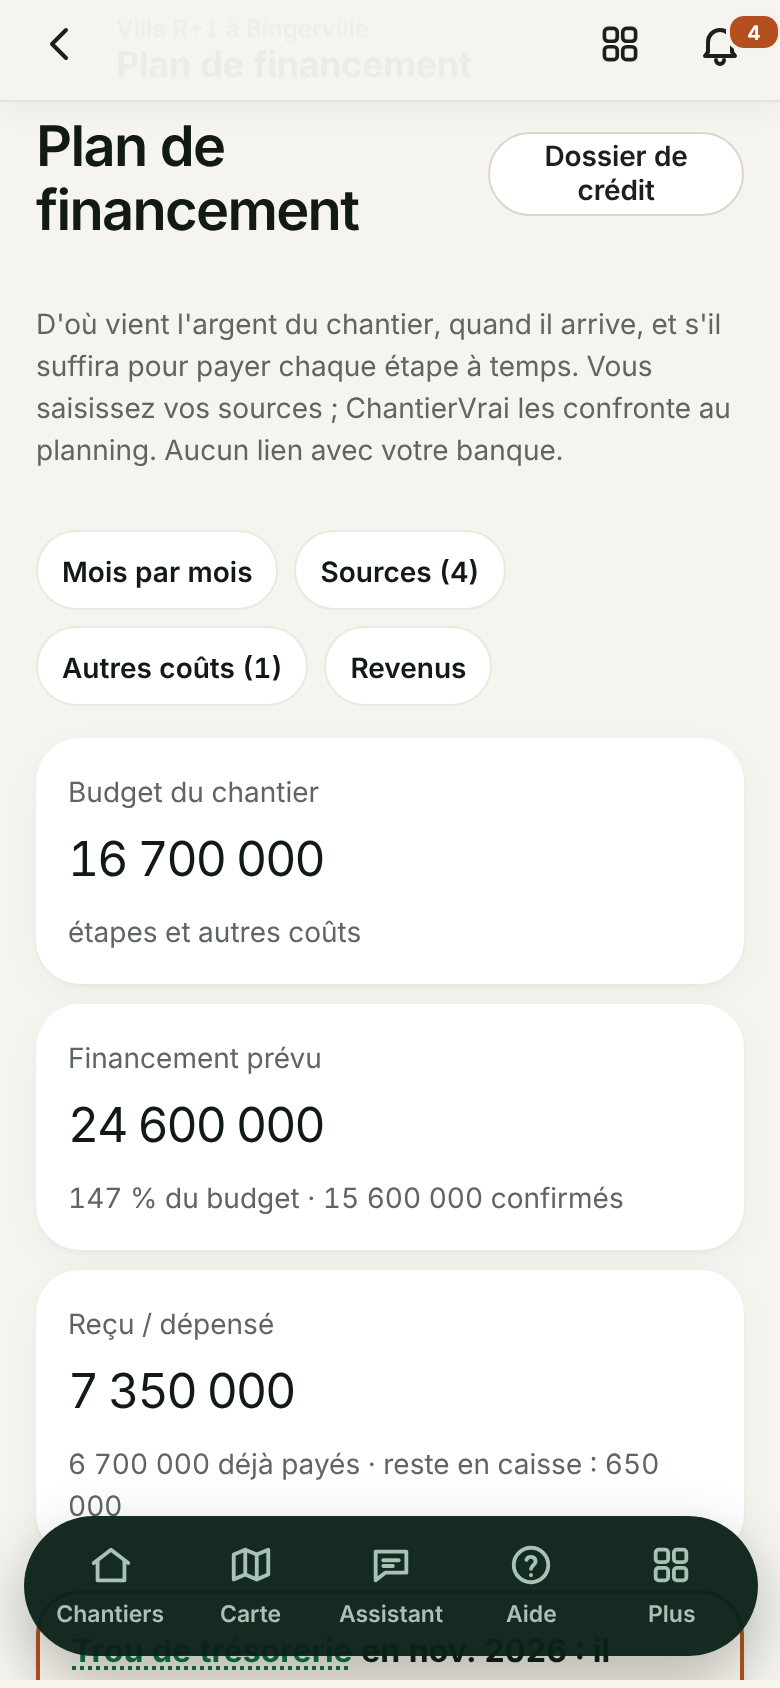
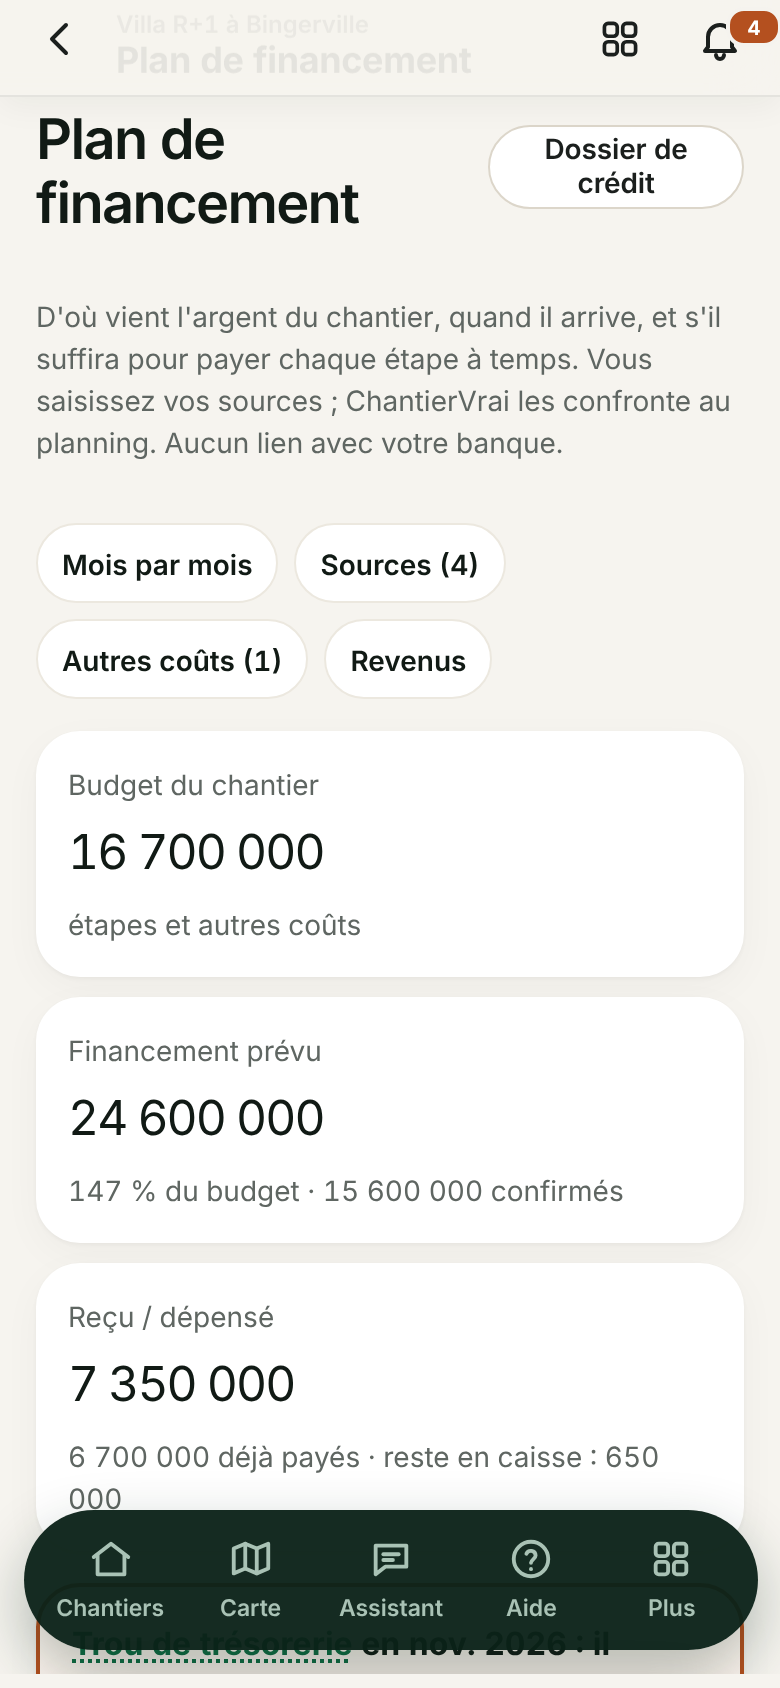
Add files via upload

diff --git a/static/style.css b/static/style.css
@@ -1309,3 +1309,83 @@ body.night .pcard-new .muted{color:var(--night-muted)}
 body.night main{overflow-x:clip}
 body.night{overflow-x:hidden}
 @media (min-width:1000px){body.night .months{max-width:520px}body.night .band-stats{max-width:520px}}
+
+/* ---- Terrains : cartographie et vérification ---- */
+.plots-hero{display:flex;flex-direction:column;gap:6px;margin:4px 0 6px}
+.plots-hero h1{margin:0}
+.eyebrow{font-size:11.5px;letter-spacing:.14em;text-transform:uppercase;font-weight:700;color:#9A7A3E}
+.plot-new .grid2{margin-top:4px}
+.plot-list{display:grid;gap:12px;grid-template-columns:repeat(auto-fill,minmax(280px,1fr))}
+.plot-item{text-decoration:none;color:inherit;transition:transform .18s ease,box-shadow .18s ease}
+.plot-item:hover{transform:translateY(-2px);box-shadow:0 10px 30px rgba(11,34,25,.10)}
+.lvl-bar{height:6px;border-radius:99px;background:#ECE7DC;overflow:hidden}
+.lvl-bar i{display:block;height:100%;background:linear-gradient(90deg,#C9A46A,#0F6E45);border-radius:inherit}
+.how ol{margin:6px 0 4px;padding-left:20px;display:flex;flex-direction:column;gap:6px}
+.lvl-steps{list-style:none;margin:6px 0 2px;padding:0;display:grid;grid-template-columns:repeat(4,1fr);gap:6px}
+.lvl-steps li{display:flex;flex-direction:column;align-items:center;gap:6px;text-align:center;font-size:12.5px;color:#6B726E;position:relative}
+.lvl-steps li i{font-style:normal;width:30px;height:30px;border-radius:50%;display:grid;place-items:center;font-weight:700;background:#ECE7DC;color:#6B726E;z-index:1}
+.lvl-steps li:not(:first-child)::before{content:"";position:absolute;top:15px;right:50%;width:100%;height:2px;background:#ECE7DC}
+.lvl-steps li.done i{background:#0B2219;color:#C9A46A}
+.lvl-steps li.done:not(:first-child)::before{background:#0B2219}
+.lvl-steps li.now i{box-shadow:0 0 0 4px rgba(201,164,106,.35)}
+.lvl-steps li.now span{color:#0B2219;font-weight:700}
+.plot-map{height:440px;border-radius:14px;overflow:hidden;background:#0B2219}
+@media (max-width:640px){.plot-map{height:340px}}
+.map-tools{flex-wrap:wrap;gap:8px}
+.map-btns{display:flex;gap:6px;flex-wrap:wrap}
+.borne{background:#0B2219;color:#C9A46A;border:2px solid #C9A46A;border-radius:50%;font:700 10px/22px system-ui,sans-serif;text-align:center;box-shadow:0 2px 6px rgba(0,0,0,.4)}
+.official-grid{display:grid;gap:12px;grid-template-columns:repeat(auto-fit,minmax(260px,1fr))}
+.land-cta{flex-direction:row!important;align-items:center;gap:14px;text-decoration:none;color:inherit;margin-top:14px;
+  background:linear-gradient(120deg,#0B2219,#163A2B);color:#fff;border:1px solid rgba(201,164,106,.35)}
+.land-cta b{display:block;color:#fff}
+.land-cta .muted{color:#B9C8BF!important;font-size:13.5px}
+.land-cta-ic{flex:none;width:44px;height:44px;border-radius:12px;display:grid;place-items:center;background:rgba(201,164,106,.16);color:#C9A46A}
+.land-cta-ic svg{width:24px;height:24px}
+.land-cta-go{margin-left:auto;font-size:20px;color:#C9A46A}
+.plot-map.offline{display:flex;flex-direction:column;align-items:center;justify-content:center;gap:8px;padding:16px;color:#B9C8BF;text-align:center;font-size:13.5px;
+  background:radial-gradient(circle at 30% 20%,#163A2B,#0B2219 70%)}
+.plot-map.offline svg{width:min(320px,80%);height:auto}
+.official-grid .tag,#points .tag,.level-card .tag{white-space:normal;line-height:1.35}
+
+/* ---- Drone et caméra ---- */
+.aerial-kpis{display:grid;grid-template-columns:repeat(auto-fit,minmax(150px,1fr));gap:12px;margin:4px 0}
+.aerial-kpis span{display:flex;flex-direction:column;gap:2px}
+.aerial-kpis i{font-style:normal;font-size:12px;color:#6B726E;text-transform:uppercase;letter-spacing:.08em}
+.aerial-kpis b{font-size:18px}
+.aerial-kpis small{font-size:12px;color:#6B726E}
+.freq-grid{display:grid;gap:10px;grid-template-columns:repeat(auto-fit,minmax(200px,1fr))}
+.freq{position:relative;display:flex;flex-direction:column;gap:6px;padding:16px;border:1.5px solid #E4DFD3;border-radius:14px;cursor:pointer;background:#FBFAF6;transition:border-color .15s,box-shadow .15s}
+.freq input{position:absolute;opacity:0;pointer-events:none}
+.freq:has(input:checked){border-color:#0B2219;box-shadow:0 0 0 3px rgba(201,164,106,.35);background:#fff}
+.freq-name{font-weight:700}
+.freq-price{font-size:22px;font-weight:700;color:#0B2219}
+.freq-price small{font-size:12px;font-weight:500;color:#6B726E}
+.freq-badge{position:absolute;top:12px;right:12px;font-size:11px;font-weight:700;padding:3px 8px;border-radius:99px;background:#C9A46A;color:#0B2219}
+.ba{position:relative;border-radius:14px;overflow:hidden;aspect-ratio:16/10;background:#0B2219}
+.ba img{position:absolute;inset:0;width:100%;height:100%;object-fit:cover}
+.ba-before{clip-path:inset(0 calc(100% - var(--x)) 0 0)}
+.ba-line{position:absolute;top:0;bottom:0;left:var(--x);width:2px;background:#C9A46A;box-shadow:0 0 8px rgba(0,0,0,.5)}
+.ba input{position:absolute;inset:0;width:100%;height:100%;opacity:0;cursor:ew-resize;margin:0}
+.mission-row{display:flex;flex-direction:column;gap:6px;padding:10px 0;border-top:1px solid #EEE9DE}
+.mission-row:first-of-type{border-top:0}
+.mission-strip{display:flex;gap:8px;overflow-x:auto;padding-bottom:4px}
+.mission-strip a{position:relative;flex:none}
+.mission-strip img{width:120px;height:84px;object-fit:cover;border-radius:10px;display:block}
+.mission-strip em{position:absolute;left:6px;bottom:6px;font-style:normal;font-size:10.5px;font-weight:700;padding:2px 6px;border-radius:6px;background:rgba(11,34,25,.85);color:#C9A46A}
+.tl{position:relative;border-radius:14px;overflow:hidden;background:#0B2219}
+.tl img{display:block;width:100%;aspect-ratio:16/9;object-fit:cover}
+.tl-time{position:absolute;top:10px;left:10px;font:600 12px/1 system-ui,sans-serif;padding:6px 9px;border-radius:8px;background:rgba(11,34,25,.8);color:#fff}
+.tl-bar{display:flex;gap:10px;align-items:center;padding:10px;background:#0B2219}
+.tl-bar input{flex:1;accent-color:#C9A46A}
+.tl-play.on{background:#C9A46A;color:#0B2219}
+.activity{display:grid;grid-template-columns:repeat(7,1fr);gap:6px}
+.act{display:flex;flex-direction:column;align-items:center;gap:4px;font-size:11px;color:#6B726E}
+.act i{width:100%;height:10px;border-radius:99px;background:#E4DFD3}
+.act.active i,.act-key.active{background:#1F8A57}
+.act.calm i,.act-key.calm{background:#D9A23A}
+.act-key{display:inline-block;width:10px;height:10px;border-radius:50%;background:#E4DFD3;vertical-align:-1px}
+.how-list{margin:6px 0 0;padding-left:20px;display:flex;flex-direction:column;gap:4px}
+.fold-upload>summary{cursor:pointer;font-weight:600;list-style:none}
+.fold-upload>summary::after{content:" +";color:#9A7A3E}
+.fold-upload[open]>summary::after{content:" −"}
+.fold-upload form{margin-top:10px}

diff --git a/test_complet.py b/test_complet.py
@@ -283,44 +283,21 @@ runner = A.app.test_cli_runner(); res = runner.invoke(args=["rapports-hebdo"]); 
 assert s.execute("SELECT COUNT(*) FROM notifications WHERE title LIKE '%Compte rendu%' AND channel='email'").fetchone()[0] >= 1
 print("compte rendu hebdo ok (page, commande planifiable, envoi e-mail simule)")
 
-# --- 13. Marche public, documents, portail citoyen, signalement ---
-post(own, f"/chantiers/{pid}/marche", dict(kind="public", is_public="1", marche_ref="2026-0-1-0999", autorite="Mairie de Bingerville",
-                                           attributaire="BTP SA", montant_marche="15500000", sigomap_url="https://exemple.ci/dossier/1"),
-     f"/chantiers/{pid}?onglet=dossier")
-post(own, f"/chantiers/{pid}/documents", dict(category="DAO", title="DAO lot unique", is_public="1",
+# --- 13. Documents du chantier, et plus de portail public ni de marchés publics ---
+post(own, f"/chantiers/{pid}/documents", dict(category="DAO", title="DAO lot unique",
                                               file=(io.BytesIO(b"%PDF-1.4 test"), "dao.pdf")), f"/chantiers/{pid}?onglet=dossier", files=True)
-h = citizen.get("/portail").get_data(as_text=True); assert "Villa R+1" in h
-h = citizen.get(f"/portail/{pid}").get_data(as_text=True)
-assert "Mairie de Bingerville" in h and "DAO lot unique" in h and "PV de réception" in h and "Voir le marché sur SIGOMAP" in h
-doc = s.execute("SELECT id FROM documents WHERE category='DAO'").fetchone()[0]
-assert citizen.get(f"/portail/documents/{doc}").status_code == 200
+assert "DAO lot unique" in own.get(f"/chantiers/{pid}?onglet=dossier").get_data(as_text=True)
+for u in ("/portail", f"/portail/{pid}", "/marches/import"):
+    assert citizen.get(u).status_code == 404 and own.get(u).status_code == 404, u
 okp = s.execute("SELECT id FROM proofs WHERE project_id=? AND ok=1 AND kind='photo'", (pid,)).fetchone()[0]
-badp = s.execute("SELECT id FROM proofs WHERE project_id=? AND ok=0", (pid,)).fetchone()[0]
-assert citizen.get(f"/portail/photos/{okp}").status_code == 404           # pas encore publiee
-post(own, f"/preuves/{okp}/publier", {}, f"/chantiers/{pid}?onglet=preuves")
-assert citizen.get(f"/portail/photos/{okp}").status_code == 200 and citizen.get(f"/portail/photos/{badp}").status_code == 404
 assert citizen.get(f"/photos/{okp}").status_code == 302
-h = post(citizen, f"/portail/{pid}/signaler", dict(text="Chantier à l'arrêt depuis 2 semaines", lat="5.3523", lng="-3.8890",
-                                                   photo=(io.BytesIO(jpg(None, None, nowu, 7)), "s.jpg")), f"/portail/{pid}", files=True).get_data(as_text=True)
-assert "Votre signalement a été transmis" in h
-sg = s.execute("SELECT * FROM signalements").fetchone(); assert sg["distance"] < 50
-post(own, f"/signalements/{sg['id']}/reponse", dict(response="Reprise des travaux lundi."), f"/chantiers/{pid}?onglet=dossier")
-assert "Reprise des travaux lundi." in citizen.get(f"/portail/{pid}").get_data(as_text=True)
-print("marche public, documents, portail citoyen, signalement ok")
+assert "Portail citoyen" not in own.get("/").get_data(as_text=True)
+print("documents ok, portail citoyen et marchés publics retirés")
 
-# --- 14. Import CSV de marches (SIGOMAP) et carte ---
-with open(os.path.join(BASE, "static", "modele_import_marches.csv"), "rb") as fh:
-    h = post(own, "/marches/import", dict(file=(io.BytesIO(fh.read()), "m.csv")), "/marches/import", files=True).get_data(as_text=True)
-assert "2 chantiers créés" in h, h[:2000]
-with open(os.path.join(BASE, "static", "modele_import_marches.csv"), "rb") as fh:
-    h = post(own, "/marches/import", dict(file=(io.BytesIO(fh.read()), "m.csv")), "/marches/import", files=True).get_data(as_text=True)
-assert "0 chantier créé, 2 mis à jour" in h
-imp = s.execute("SELECT * FROM projects WHERE marche_ref='2026-0-1-0123/02-12'").fetchone()
-assert imp["kind"] == "public" and imp["is_public"] == 1 and imp["start_date"] == "2026-01-15"
-assert s.execute("SELECT SUM(amount) FROM steps WHERE project_id=?", (imp["id"],)).fetchone()[0] == 185000000
-h = own.get("/carte").get_data(as_text=True); assert "Construction d" in h and "L.map" in h
-h = own.get("/").get_data(as_text=True); assert "Argent suivi sur vos" in h and "sur un budget de" in h
-print("import SIGOMAP (creation puis mise a jour) et carte ok")
+# --- 14. Carte ---
+h = own.get("/carte").get_data(as_text=True); assert "Villa R+1" in h and "L.map" in h
+h = own.get("/").get_data(as_text=True); assert "Argent suivi sur votre chantier" in h and "sur un budget de" in h
+print("carte ok")
 
 # --- 15. Application installable et pages diverses ---
 assert own.get("/manifest.webmanifest").json["display"] == "standalone"

diff --git a/test_recours.py b/test_recours.py
@@ -1,5 +1,5 @@
 """Test des recours : validation automatique (recours du chef), litiges avec delais, decision et recours,
-moderation du portail citoyen, reattribution d'une inspection, conditions fournisseur.
+reattribution d'une inspection, conditions fournisseur.
 Lancement : python3 test_recours.py
 """
 import os, re, sys, tempfile
@@ -227,29 +227,6 @@ s.execute("UPDATE disputes SET appeal_until=? WHERE id=?", (ago(1), did2)); s.co
 assert job(A.disputes_daily)["clos"] == 1 and one("SELECT status FROM disputes WHERE id=?", did2)[0] == "clos"
 print("litiges : échanges 5 j, médiation, décision motivée, recours unique, décision finale du fondateur")
 
-# --- 4. Portail citoyen : statuts, reponse publique obligatoire, rappels, moderation ---
-s.execute("UPDATE projects SET kind='public', is_public=1, require_inspection=1 WHERE id=?", (pid,)); s.commit()
-assert "reste obligatoire" in html(post(own, f"/chantiers/{pid}/reglages", dict(setting="inspection"), f"/chantiers/{pid}?onglet=dossier"))
-citizen = A.app.test_client()
-post(citizen, f"/portail/{pid}/signaler", dict(text="Le chantier bloque la route le soir, aucun balisage."), f"/portail/{pid}")
-sid = one("SELECT id FROM signalements")[0]
-assert "Reçu" in html(citizen.get(f"/portail/{pid}"))
-assert "réponse publique attendue sous 10 jours" in html(own.get(f"/chantiers/{pid}?onglet=dossier"))
-post(own, f"/signalements/{sid}/reponse", dict(status="en_cours"), f"/chantiers/{pid}?onglet=dossier")
-assert one("SELECT status FROM signalements WHERE id=?", sid)[0] == "en_cours" and "Pris en charge" in html(citizen.get(f"/portail/{pid}"))
-assert "Écrivez la réponse" in html(post(own, f"/signalements/{sid}/reponse", dict(status="traite"), f"/chantiers/{pid}?onglet=dossier"))
-s.execute("UPDATE signalements SET created_at=? WHERE id=?", (ago(6), sid)); s.commit()
-assert job(A.signalements_daily)["rappels"] == 1
-s.execute("UPDATE signalements SET created_at=? WHERE id=?", (ago(11), sid)); s.commit()
-assert job(A.signalements_daily)["support"] == 1 and notes("support@cv.ci", "Signalement citoyen sans réponse") == 1
-post(own, f"/signalements/{sid}/reponse", dict(status="traite", response="Balisage installé le 14/11, merci."), f"/chantiers/{pid}?onglet=dossier")
-assert "Balisage installé" in html(citizen.get(f"/portail/{pid}"))
-post(citizen, f"/portail/{pid}/signaler", dict(text="Message injurieux sans rapport avec le chantier ici."), f"/portail/{pid}")
-sid2 = one("SELECT MAX(id) FROM signalements")[0]
-post(sup_staff, "/admin/action", dict(action="hide_sig", id=sid2, note="injurieux"), "/admin")
-assert one("SELECT status, hidden, moderation_note FROM signalements WHERE id=?", sid2)[:] == ("rejete", 1, "injurieux")
-assert "injurieux" not in html(citizen.get(f"/portail/{pid}"))
-print("portail citoyen : statuts, réponse publique sous 10 jours, rappels, signalement écarté avec motif")
 
 # --- 5. Inspection : l'inspecteur refuse -> retour a l'attribution ; annulation avant paiement ---
 insp = register("i@x.ci", "inspecteur", zone="Bingerville", phone="0500000000")

diff --git a/test_equipe.py b/test_equipe.py
@@ -92,7 +92,7 @@ h = html(boss.get("/admin/equipe"))
 assert all(v in h for v in ("Vérification", "Commercial", "Finance", "Professionnel du BTP"))
 print("équipe : ajout par rôle, notification, 2FA exigée pour chacun")
 
-# --- 3. Donnees de travail : chantier, commande d'image, signalement ---
+# --- 3. Donnees de travail : chantier, commande d'image ---
 s.execute("INSERT INTO projects (owner_id, name, lat, lng, invite_code, created_at) VALUES (?,?,?,?,?,?)",
           (ids["client@x.ci"], "Villa Cocody", 5.35, -3.98, "INV-EQ1", A.now_iso()))
 pid = one("SELECT id FROM projects WHERE invite_code='INV-EQ1'")[0]
@@ -100,16 +100,14 @@ prov = next(iter(A.IMAGERY_PROVIDERS))
 s.execute("INSERT INTO imagery_orders (project_id, user_id, provider, status, created_at) VALUES (?,?,?,?,?)",
           (pid, ids["client@x.ci"], prov, "demandee", A.now_iso()))
 oid = one("SELECT id FROM imagery_orders")[0]
-s.execute("INSERT INTO signalements (project_id, text, created_at) VALUES (?,?,?)", (pid, "Travaux bruyants la nuit", A.now_iso()))
-sid = one("SELECT id FROM signalements")[0]
 s.commit()
 
 # --- 4. Chaque role ne voit que ses sections ---
 SECTIONS = {"images": "Images satellite très haute résolution", "verify": "Inspecteurs et fournisseurs à vérifier",
-            "disputes": "Litiges", "moderation": "Modération du portail citoyen", "accounts": "Rechercher un compte",
+            "disputes": "Litiges", "accounts": "Rechercher un compte",
             "journal": "Journal d&#39;administration", "escrow": "En séquestre", "commission": "FCFA de commission",
             "team": "/admin/equipe"}
-SEES = {"verification": {"verify"}, "support": {"disputes", "moderation", "accounts"},
+SEES = {"verification": {"verify"}, "support": {"disputes", "accounts"},
         "commercial": {"images"}, "finance": {"images", "escrow", "commission"}}
 for k, c in staff.items():
     h = html(c.get("/admin"))
@@ -127,9 +125,6 @@ assert post(cm, "/admin/action", dict(action="verify", id=iid), "/admin", follow
 post(v, "/admin/action", dict(action="verify", id=iid), "/admin")
 assert one("SELECT verified FROM users WHERE id=?", iid)[0] == 1
 assert post(v, "/admin/action", dict(action="block", id=ids["client@x.ci"]), "/admin", follow=False).status_code == 403
-assert post(v, "/admin/action", dict(action="hide_sig", id=sid), "/admin", follow=False).status_code == 403
-post(sp, "/admin/action", dict(action="hide_sig", id=sid), "/admin")
-assert one("SELECT hidden FROM signalements WHERE id=?", sid)[0] == 1
 assert post(sp, "/admin/action", dict(action="reset_link", id=ids["client@x.ci"]), "/admin", follow=False).status_code == 403
 assert post(sp, "/admin/action", dict(action="block", id=ids["fondateur@cv.ci"]), "/admin", follow=False).status_code == 403
 post(sp, "/admin/action", dict(action="block", id=ids["client@x.ci"]), "/admin")

diff --git a/test_vente.py b/test_vente.py
@@ -1,5 +1,5 @@
 """Test des fonctions de mise en vente : securite des comptes, etapes modifiables, co-proprietaires,
-administration, litiges, paiement de l'inspecteur, camera integree, hors ligne, publication, sauvegardes.
+administration, litiges, paiement de l'inspecteur, camera integree, hors ligne, sauvegardes.
 Lancement : python3 test_vente.py
 """
 import io, json, os, re, shutil, sys, tempfile
@@ -246,20 +246,6 @@ post(adm, "/admin/inspections", dict(action="payout", id=iid, reference="WAVE-IN
 assert s.execute("SELECT paid, payout_status, pay_ref FROM inspections WHERE id=?", (iid,)).fetchone()[:] == (1, "verse", "WAVE-INSP-1")
 print("inspection vendue par ChantierVrai : attribution, rapport, inspecteur payé par la finance")
 
-# --- 11. Publication sur le portail (visages floutes) et moderation ---
-post(own, f"/chantiers/{pid}/marche", dict(kind="public", is_public="1", autorite="Mairie"), f"/chantiers/{pid}?onglet=dossier")
-pub = A.app.test_client()
-assert "/portail/photos/" not in html(pub.get(f"/portail/{pid}"))
-r = post(own, f"/preuves/{okp}/publier", {}, f"/chantiers/{pid}?onglet=preuves")
-assert "Photo publiée" in html(r)
-assert pub.get(f"/portail/photos/{okp}").status_code == 200
-face_img, n, available = A.VISION.blur_faces(Image.new("RGB", (100, 100), (200, 200, 200)))
-assert available is not None
-post(pub, f"/portail/{pid}/signaler", dict(text="Message insultant pour tester la modération"), f"/portail/{pid}")
-sid = s.execute("SELECT id FROM signalements").fetchone()[0]
-post(adm, "/admin/action", dict(action="hide_sig", id=sid), "/admin")
-assert "insultant" not in html(pub.get(f"/portail/{pid}"))
-print("publication des photos et modération ok")
 
 # --- 12. Admin : lien de reinitialisation, blocage ---
 k_id = s.execute("SELECT id FROM users WHERE email='k@x.ci'").fetchone()[0]

diff --git a/test_anglais.py b/test_anglais.py
@@ -105,8 +105,8 @@ assert "Recent activity" in home and "declared complete" in home and "Verified p
 no_french(home, "accueil")
 for tab in ("etapes", "vues", "dossier"):
     no_french(text(own.get(f"/chantiers/{pid}?onglet={tab}")), tab)
-for url in ("/", "/compte", "/compte/securite", "/notifications", "/carte", "/cgu", "/confidentialite", "/portail",
-            f"/chantiers/{pid}/rapports", "/chantiers/nouveau", "/marches/import"):
+for url in ("/", "/compte", "/compte/securite", "/notifications", "/carte", "/cgu", "/confidentialite",
+            f"/chantiers/{pid}/rapports", "/chantiers/nouveau"):
     r = own.get(url); assert r.status_code == 200, url
     no_french(text(r), url)
 assert "Terms of use" in text(own.get("/cgu")) and "Privacy policy" in text(own.get("/confidentialite"))
@@ -145,9 +145,8 @@ assert "Mon compte" in r.get_data(as_text=True)
 assert s.execute("SELECT lang FROM users WHERE email='ama@x.co.uk'").fetchone()[0] == "fr"
 own.get("/?lang=en")
 anon = A.app.test_client()
-assert "Citizen portal for public works" in anon.get("/portail?lang=en").get_data(as_text=True)
-assert "Portail citoyen des chantiers publics" in anon.get("/portail", headers={"Accept-Language": "fr-FR"}).get_data(as_text=True) or True
-assert "Citizen portal for public works" in anon.get("/portail").get_data(as_text=True)     # gardee en session
+assert "Terms of use" in anon.get("/cgu?lang=en").get_data(as_text=True)
+assert "Terms of use" in anon.get("/cgu").get_data(as_text=True)     # gardee en session
 js = re.search(r"window.CV_T = (\{.*?\});", chef.get(f"/chantiers/{pid}").get_data(as_text=True)).group(1)
 assert json.loads(js)["Vérification et envoi…"] == "Vérification et envoi…"
 own.get("/?lang=en")

diff --git a/recette/navigateur.py b/recette/navigateur.py
@@ -80,7 +80,7 @@ with sync_playwright() as pw:
     ok(p.locator("#camera").is_visible(), "caméra de l'application ouverte")
     p.click("#cam-snap")
     try:   # l'encodage de l'image est asynchrone : on attend le résultat plutôt qu'un délai fixe
-        p.wait_for_function("!document.getElementById('send').disabled", timeout=4000)
+        p.wait_for_function("!document.getElementById('send').disabled", timeout=10000)
     except Exception:
         pass
     ok(not p.locator("#send").is_disabled(), "photo prise : bouton d'envoi actif")
